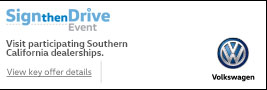
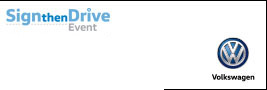
Creative update

Changed region(s): [[0.0, 0.4444, 0.4794, 0.6444], [0.0, 0.7556, 0.3596, 0.8667], [0.0, 0.9778, 0.6292, 1.0]]

diff --git a/app/728x90/scripts/Animation.js b/app/728x90/scripts/Animation.js
@@ -9,8 +9,6 @@ app.Animation = (function () {
         cta_arrow,
         curtain,
         buttonExit,
-        buttonLegal,
-        legal,
         circle1,
         circle2,
         circle3,
@@ -25,8 +23,6 @@ app.Animation = (function () {
         cta_arrow = document.getElementById('cta_arrow');
         curtain = document.getElementById('curtain');
         buttonExit = document.getElementById('button-exit');
-        buttonLegal = document.getElementById('button-legal');
-        legal = document.getElementById('legal');
         circle1 = document.getElementById('circle1');
         circle2 = document.getElementById('circle2');
         circle3 = document.getElementById('circle3');
@@ -38,29 +34,21 @@ app.Animation = (function () {
             TweenMax.to(cta_arrow, .25, {x: 5});
             TweenMax.to(cta_arrow, .25, {x: 0, delay: .25});
         });
-
-        buttonLegal.addEventListener('mouseover', function () {
-            TweenMax.to(legal, .25, {opacity: 1});
-        });
-
-        buttonLegal.addEventListener('mouseout', function () {
-            TweenMax.to(legal, .25, {opacity: 0});
-        });
     }
 
     // --------------------------------------------------------------------------------------
     // Starts the animation
     function start() {
-        TweenMax.to(myArray,1, {rotation: 360, ease:Linear.easeNone, repeat:15});
+        // TweenMax.to(myArray,1, {rotation: 360, ease:Linear.easeNone, repeat:15});
 
         tl1.to(curtain, .5, {opacity: 0})
-            .from(circle1, 1, {x:"+=728", ease:Sine.easeOut},"-=.5")
-            .from(circle2, 1, {x:"+=728", ease:Sine.easeOut},"-=.5")
-            .from(circle3, 1, {x:"+=728", ease:Sine.easeOut},"-=.75")
-            .from(circle4, 1, {x:"+=728", ease:Sine.easeOut},"-=.5")
-            .to(txt1, .5, {opacity: 1})
-            .to(cta_txt, .5, {opacity: 1})
-            .to(cta_arrow, .5, {opacity: 1}, "-=.5");
+            .from(circle1, 7, {x:"+=50", ease:Sine.easeOut},"-=.5")
+            .from(circle2, 7, {x:"+=75", ease:Sine.easeOut},"-=7")
+            .from(circle3, 7, {x:"+=100", ease:Sine.easeOut},"-=7")
+            .from(circle4, 7, {x:"+=90", ease:Sine.easeOut},"-=7")
+            .to(txt1, 1, {opacity: 1},"-=5")
+            .to(cta_txt, .5, {opacity: 1}, "-=3")
+            .to(cta_arrow, .5, {opacity: 1}, "-=3");
     }
 
     // --------------------------------------------------------------------------------------

diff --git a/app/728x90/styles/_layout.scss b/app/728x90/styles/_layout.scss
@@ -25,16 +25,6 @@ body {
         width: 100%;
     }
 
-    #button-legal {
-        background-color: rgba(255, 0, 255, 0);
-        cursor: pointer;
-        height: 15px;
-        width: 90px;
-        top: 66px;
-        left: 463px;
-        position: absolute;
-    }
-
     #border {
         border: 3px solid #fff;
         display: block;
@@ -71,24 +61,28 @@ body {
     #circle1 {
         left: 120px;
         top: -33px;
+        transform: translate3d(0, 0, 0.1px);
         position: absolute;
     }
 
     #circle2 {
         left: 185px;
         top: -36px;
+        transform: translate3d(0, 0, 0.1px);
         position: absolute;
     }
 
     #circle3 {
         left: 163px;
         top: 33px;
+        transform: translate3d(0, 0, 0.1px);
         position: absolute;
     }
 
     #circle4 {
         left: 230px;
         top: 23px;
+        transform: translate3d(0, 0, 0.1px);
         position: absolute;
     }
 
@@ -111,23 +105,6 @@ body {
         position: absolute;
     }
 
-    #legal {
-        left: 0;
-        top: 0;
-        height: 90px;
-        width: $banner-width;
-        background-color: rgba(0, 0, 0, .8);
-        opacity: 0;
-        pointer-events: none;
-        position: absolute;
-
-        #legal_txt {
-            left: 0;
-            top: 0;
-            position: absolute;
-        }
-    }
-
     #footer {
         background: #FFFFFF;
         right: 0;
@@ -144,7 +121,7 @@ body {
         }
 
         #cta_txt {
-            left: 112px;
+            left: 10px;
             top: 65px;
             opacity: 0;
             clip: rect(0px, 73px, 12px, 0px);
@@ -152,7 +129,7 @@ body {
         }
 
         #cta_arrow {
-            left: 112px;
+            left: 10px;
             top: 65px;
             opacity: 0;
             clip: rect(0px, 83px, 12px, 73px);

diff --git a/app/728x90/index.html b/app/728x90/index.html
@@ -27,11 +27,6 @@
             <img id="art" src="images/footer.jpg" alt=""/>
             <img id="cta_txt" src="images/cta.jpg" alt=""/>
             <img id="cta_arrow" src="images/cta.jpg" alt=""/>
-
-        </div>
-
-        <div id="legal">
-            <img id="legal_txt" src="images/legal_txt.png" alt=""/>
         </div>
 
         <div id="curtain"></div>
@@ -39,7 +34,6 @@
         <div id="border"></div>
         <div id="border2"></div>
         <div id="button-exit"></div>
-        <div id="button-legal"></div>
     </div>
 
     <script src="https://cdnjs.cloudflare.com/ajax/libs/gsap/1.19.1/TweenMax.min.js"></script>
